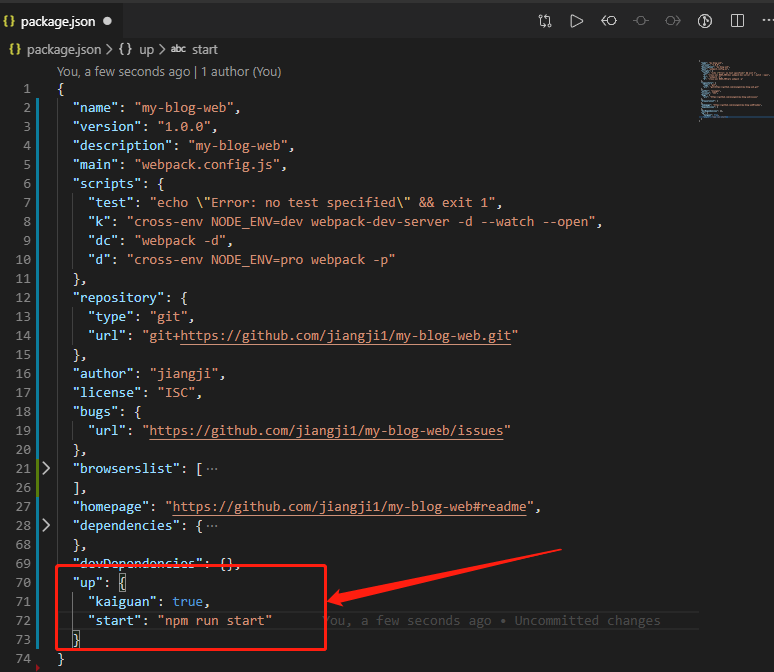
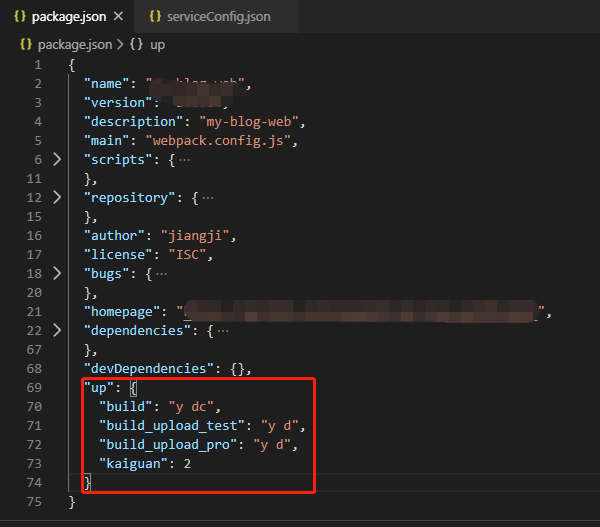
0.0.3版本

diff --git a/extension.js b/extension.js
@@ -17,8 +17,12 @@ async function handler (com) {
 		Object.prototype.hasOwnProperty.call(config, 'up') &&
 		Object.prototype.toString.call(config.up) === '[object Object]'
 	) {
-		const arr = ['build', 'build_upload_test', 'build_upload_pro']
-		const a = arr[com]
+		const obj = {
+			'build': 0,
+			'build_upload_test': 1,
+			'build_upload_pro': 2
+		}
+		const a = obj[com]
 		config.up.kaiguan = a
 		fs.writeFileSync(paj, JSON.stringify(config, 0, '\t'))
 		vscode.window.showInformationMessage(`修改为成功:${a}`)

diff --git a/README.md b/README.md
@@ -1,15 +1,15 @@
-在vscode中鼠标右键有2个菜单选项
-  * `build`  如果在`package.json`中有`up`，并且是Object. 点击`build`之后
-    * `kaiguan` 如果 up 中有kaiguan属性， 会把kaiguan 改为 0，打包完不会上传服务器
-    * `start` 如果 up 中有start属性， 会执行start 的配置的命令
-  * `build_upload_test`  如果在`package.json`中有`up`，并且是Object. 点击`build_upload`之后
-    * `kaiguan` 如果 up 中有kaiguan属性， 会把kaiguan 改为 1，打包完会上传配置文件的test服务器
-    * `start` 如果 up 中有start属性， 会执行start 的配置的命令
-  * `build_upload_pro`  如果在`package.json`中有`up`，并且是Object. 点击`build_upload`之后
-    * `kaiguan` 如果 up 中有kaiguan属性， 会把kaiguan 改为 2，打包完会上传配置文件的pro服务器
-    * `start` 如果 up 中有start属性， 会执行start 的配置的命令
+在vscode中鼠标右键，出现菜单
+  *`build` 点击之后， 如果在package.json中有up 并且是Object
+    * 1.`up` 中有`kaiguan`属性，会把`kaiguan`设置为0，打包完不上传服务器
+    * 2.`up` 中有`build` 属性,会运行 `build` 设置的命令
+  *`build_upload_test` 点击之后， 如果在package.json中有up 并且是Object
+    * 1.`up` 中有`kaiguan`属性，会把`kaiguan`设置为1，打包完会上传配置文件的test服务器
+    * 2.`up` 中有`build_upload_test` 属性,会运行 `build_upload_test` 设置的命令
+  *`build_upload_pro` 点击之后， 如果在package.json中有up 并且是Object
+    * 1.`up` 中有`kaiguan`属性，会把`kaiguan`设置为2，打包完会上传配置文件的pro服务器
+    * 2.`up` 中有`build_upload_pro` 属性,会运行 `build_upload_pro` 设置的命令
 
-简单地说，就是package.json中配置完up,在up中加入kaigaun和start，配合 webpack_auto_upload_j 就开始使用吧
+简单地说，就是`package.json`中配置完`up`,在`up`中加入`kaigaun`和`build,build_upload_test`,`build_upload_pro`，配合 `webpack_auto_upload_j插件` 就开始使用吧
 webpack_auto_upload_j 的 [详细介绍的链接1](https://juejin.im/post/5de241d75188250604078a0e)
 webpack_auto_upload_j 的 [详细介绍的链接2](https://github.com/jiangji1/webpack_auto_upload_j)
 

diff --git a/CHANGELOG.md b/CHANGELOG.md
@@ -1,15 +1,15 @@
 在vscode中鼠标右键，出现菜单
   *`build` 点击之后， 如果在package.json中有up 并且是Object
     * 1.`up` 中有`kaiguan`属性，会把`kaiguan`设置为0，打包完不上传服务器
-    * 2.`up` 中有`start` 属性,会运行 `start` 设置的命令
+    * 2.`up` 中有`build` 属性,会运行 `build` 设置的命令
   *`build_upload_test` 点击之后， 如果在package.json中有up 并且是Object
     * 1.`up` 中有`kaiguan`属性，会把`kaiguan`设置为1，打包完会上传配置文件的test服务器
-    * 2.`up` 中有`start` 属性,会运行 `start` 设置的命令
+    * 2.`up` 中有`build_upload_test` 属性,会运行 `build_upload_test` 设置的命令
   *`build_upload_pro` 点击之后， 如果在package.json中有up 并且是Object
     * 1.`up` 中有`kaiguan`属性，会把`kaiguan`设置为2，打包完会上传配置文件的pro服务器
-    * 2.`up` 中有`start` 属性,会运行 `start` 设置的命令
+    * 2.`up` 中有`build_upload_pro` 属性,会运行 `build_upload_pro` 设置的命令
 
-简单地说，就是package.json中配置完up,在up中加入kaigaun和start，配合 webpack_auto_upload_j 就开始使用吧
+简单地说，就是`package.json`中配置完`up`,在`up`中加入`kaigaun`和`build,build_upload_test`,`build_upload_pro`，配合 `webpack_auto_upload_j插件` 就开始使用吧
 webpack_auto_upload_j 的 [详细介绍的链接1](https://juejin.im/post/5de241d75188250604078a0e)
 webpack_auto_upload_j 的 [详细介绍的链接2](https://github.com/jiangji1/webpack_auto_upload_j)
 
